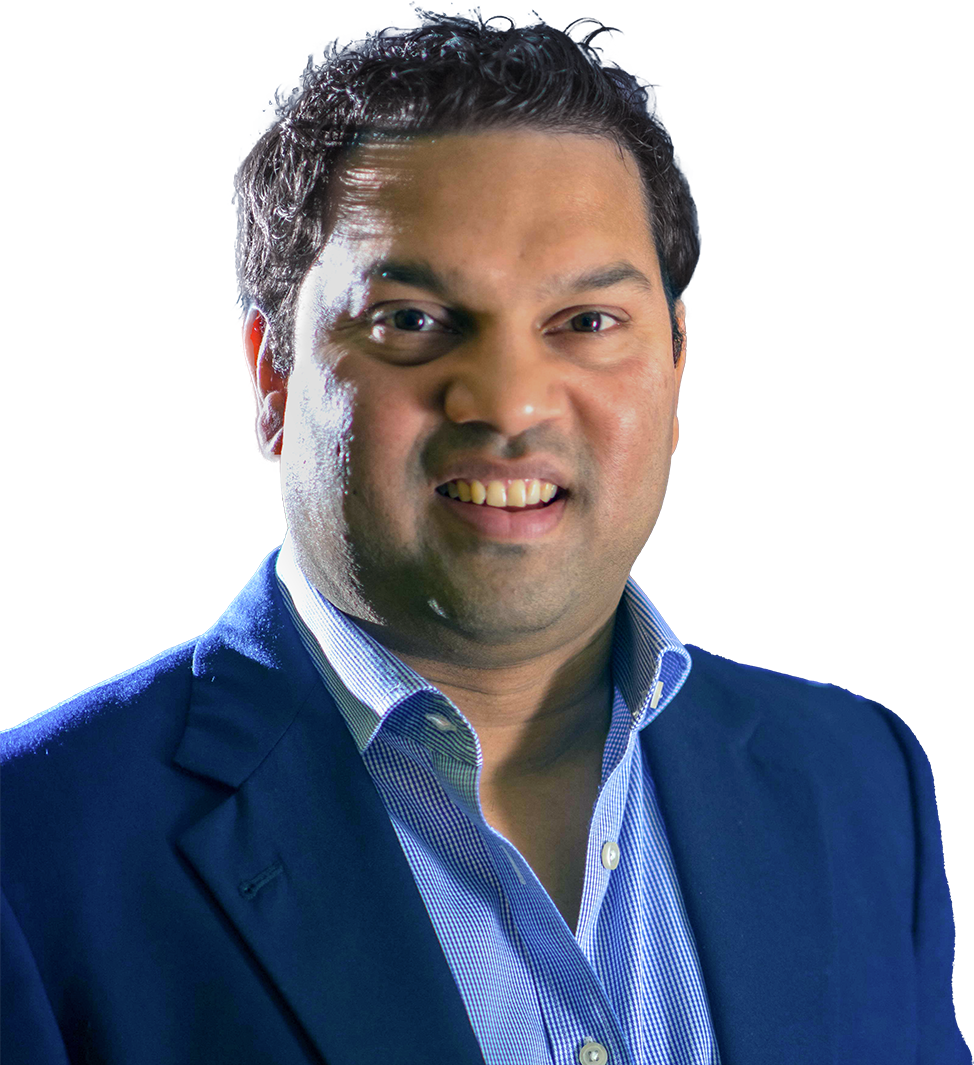
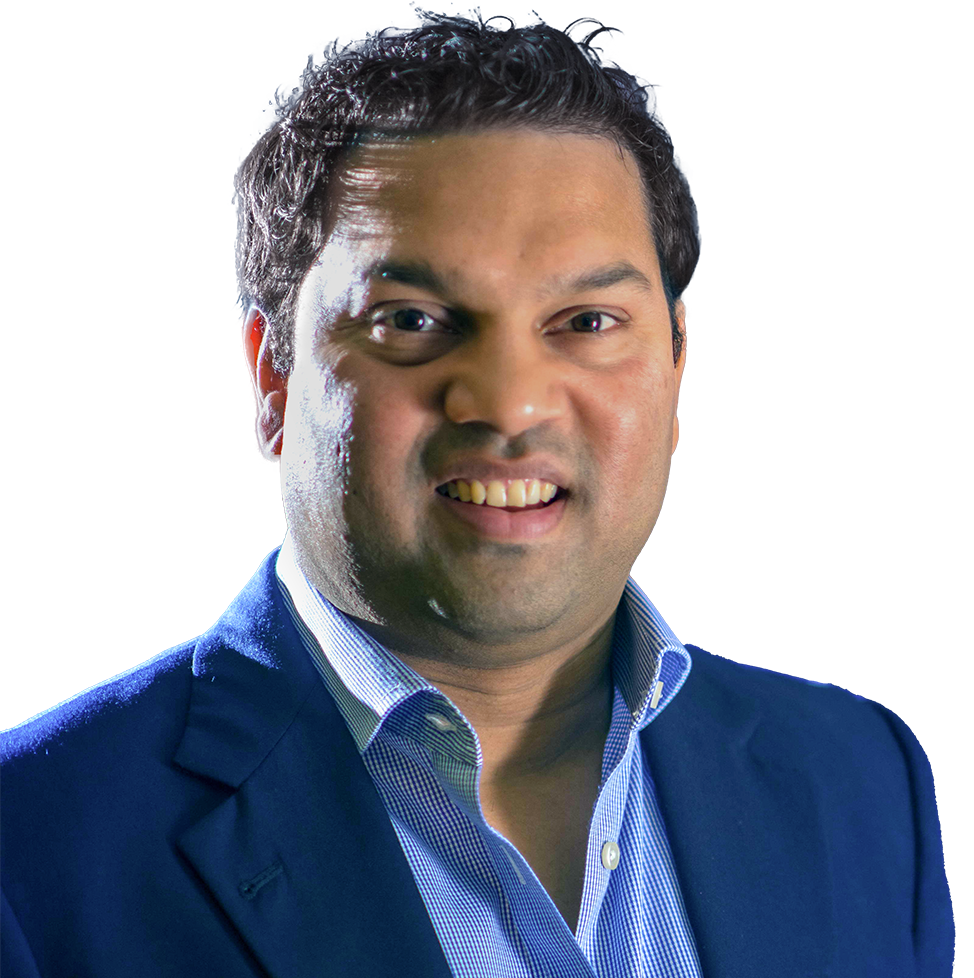
mentor Section

diff --git a/src/components/section/leadership/leadershipMentor2.js b/src/components/section/leadership/leadershipMentor2.js
@@ -1,5 +1,5 @@
 import React from "react";
-import MentorImage from "@/assests/Home/mentorNew/krishna.png";
+import MentorImage from "@/assests/Home/mentorNew/3.png";
 import backgroundImage from "@/assests/Home/mentorNew/KrishnaBack.jpg";
 import Image from "next/image";
 
@@ -22,7 +22,7 @@ function LeadershipMentor2() {
               alt="Mentor"
               width={650}
               height={400}
-              className="w-full h-auto"
+              className="w-full h-auto object-cover object-top"
             />
           </div>
           <div className="relative lg:w-[50%] h-full flex flex-col lg:justify-center xl:pt-32 lg:pl-10 lg:pr-16">

diff --git a/src/components/section/Overview/OverviewBanner.js b/src/components/section/Overview/OverviewBanner.js
@@ -1,7 +1,7 @@
 "use client";
 import Banner from "@/components/common/MainBanner/Banner";
 import React, { useState } from "react";
-import bannerImage from "@/assests/Overview/18.png";
+import bannerImage from "@/assests/Overview/19.jpg";
 // import sebiImage from "@/assests/sebi/image.png";
 import Navbar from "@/components/layout/navbar/Navbar";
 function OverviewBanner() {

diff --git a/src/components/section/Home/Mentor.js b/src/components/section/Home/Mentor.js
@@ -1,6 +1,6 @@
 "use client";
 import React, { useEffect, useState, useRef } from "react";
-import MentorImage from "@/assests/Home/mentorNew/Sumant.png";
+import MentorImage from "@/assests/Home/mentorNew/2.png";
 import backgroundImage from "@/assests/Home/mentorNew/SumanBack.jpg";
 import Image from "next/image";
 import { gsap } from "gsap";

diff --git a/src/components/section/leadership/leadershipMentor.js b/src/components/section/leadership/leadershipMentor.js
@@ -1,5 +1,5 @@
 import React from "react";
-import MentorImage from "@/assests/Home/mentorNew/Sumant.png";
+import MentorImage from "@/assests/Home/mentorNew/2.png";
 import backgroundImage from "@/assests/Home/mentorNew/SumanBack.jpg";
 import Image from "next/image";
 
